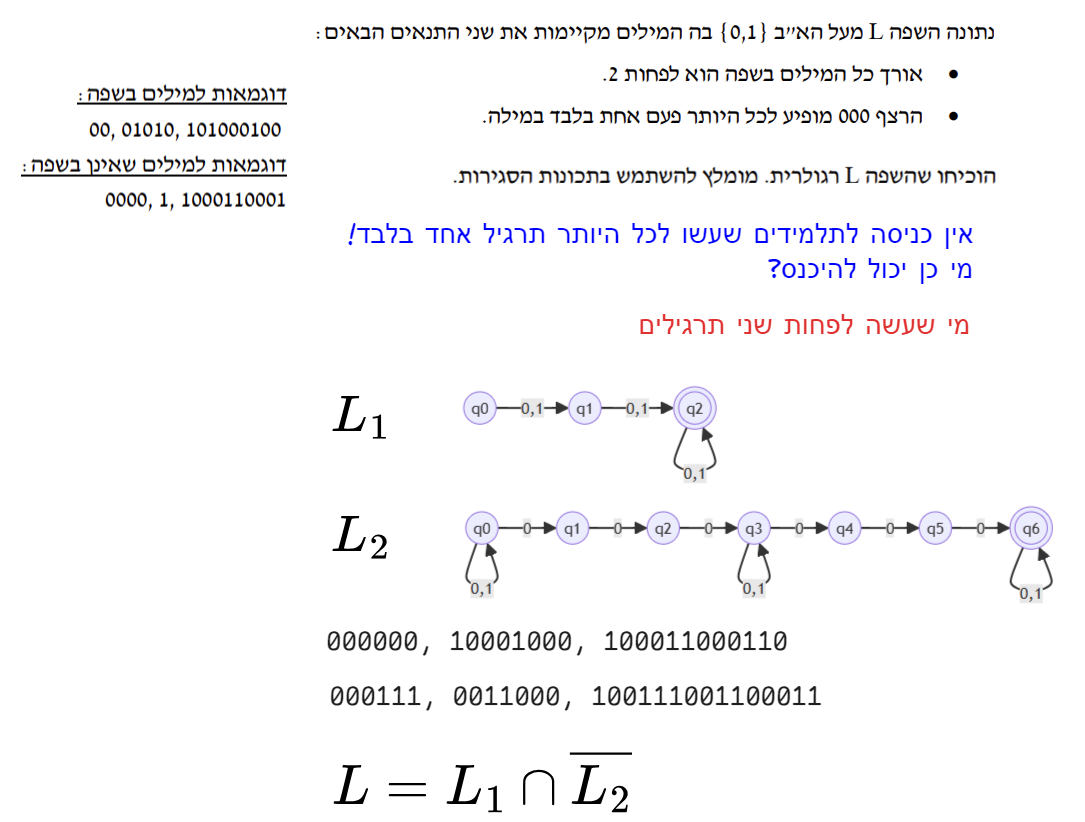
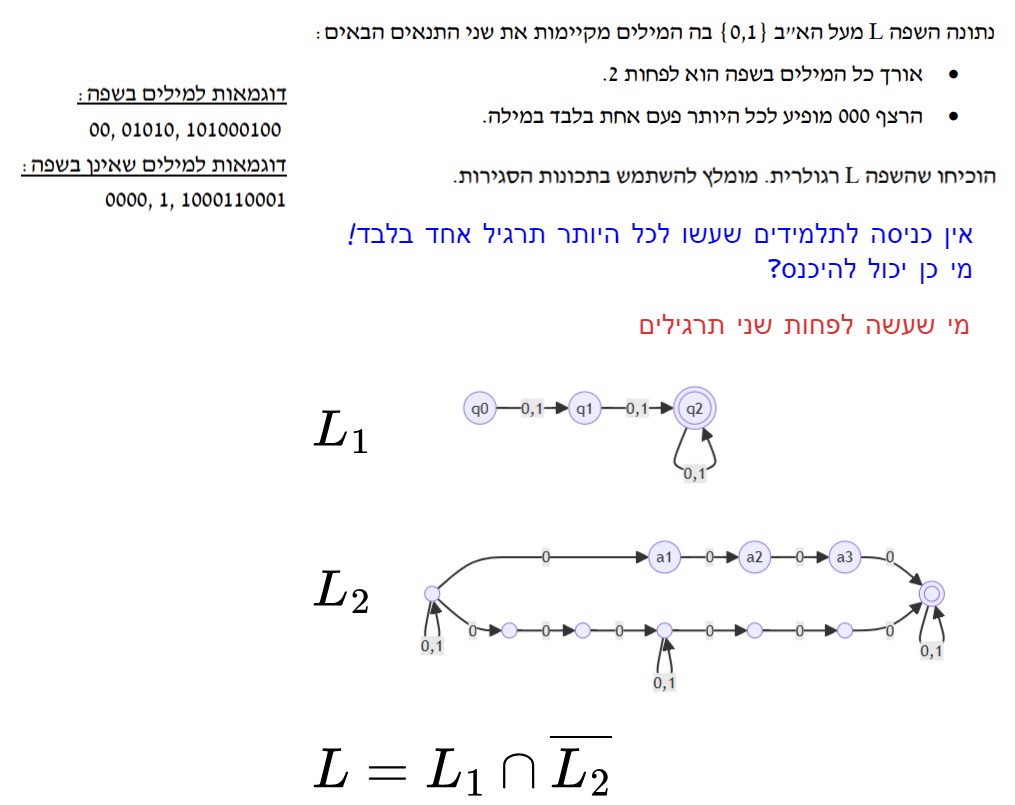
0.27.4

diff --git a/bagruts/2025-271-b.html b/bagruts/2025-271-b.html
@@ -454,15 +454,14 @@ secret(root, $25$);   // 50
 
 <!---------------------------------------------------------->
 
-<drill lang="java" id="q8-b" no-wrong-phase as-html>
+<drill lang="java" id="q8-b!" no-wrong-phase as-html>
 <img-areas width=800
     src="./img/2025-271-b-q8-b.png"
     hide="[
-        [5,9,23,5],[1,18,26,5],
-        [31,25,61,11],[58,37,33,5],
-        [41,45,28,15],[41,61,59,13],
-        [29,75,46,6],[30,82,48,5],
-        [40,90,21,10]
+        [7,9,22,6],[1,18,29,5],
+        [32,25,66,12],[62,37,35,7],
+        [44,46,29,16],[40,66,55,22],
+        [30,90,32,10]
     ]">
 </img-areas>
 </drill>